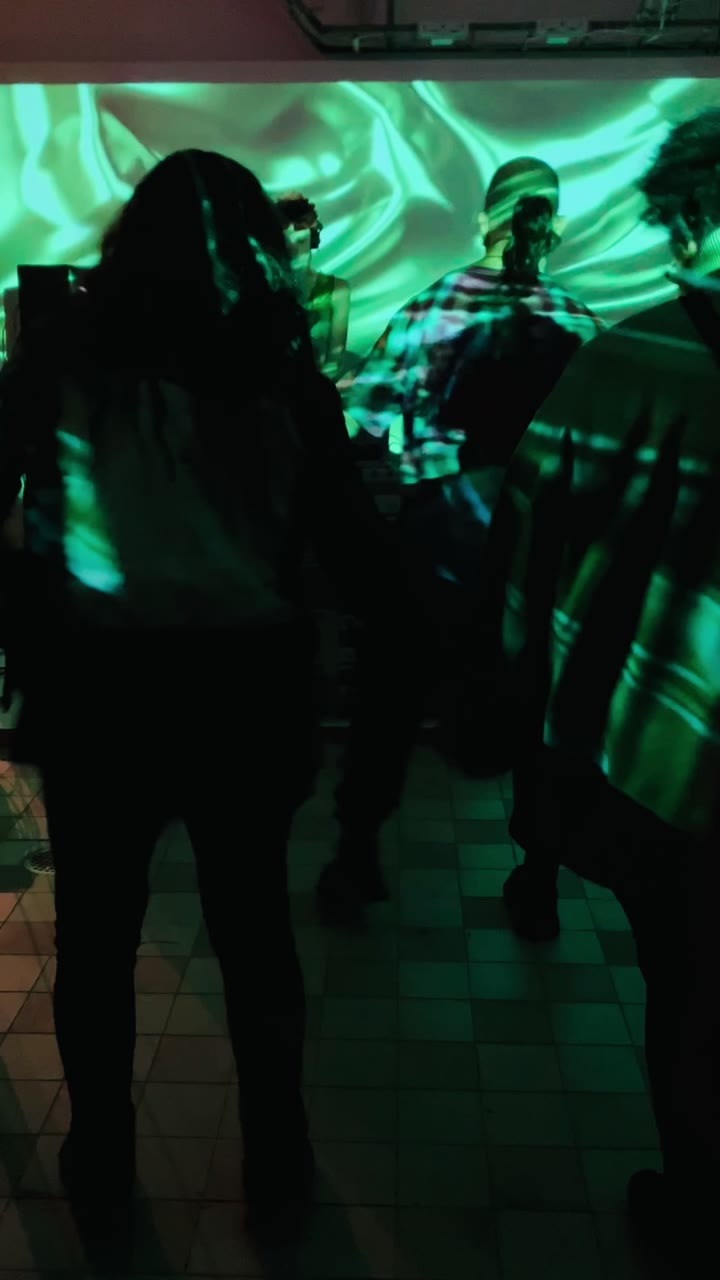
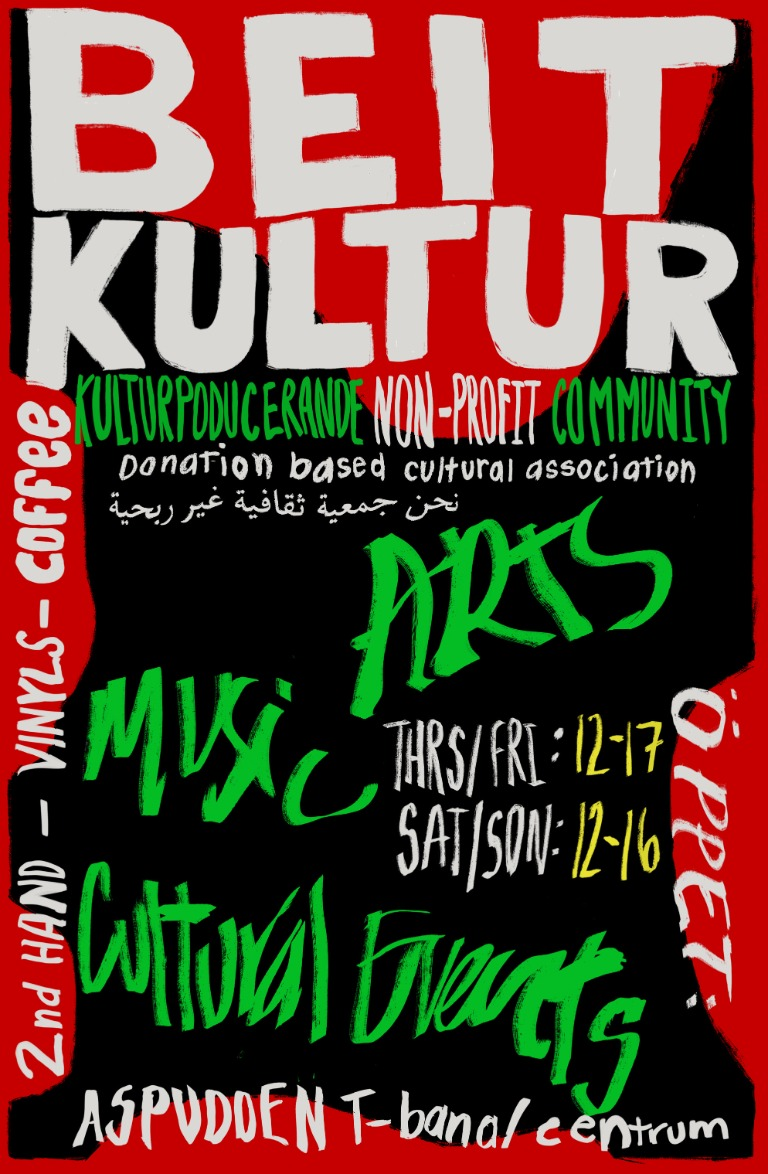
s

diff --git a/src/routes/get-involved/+page.svelte b/src/routes/get-involved/+page.svelte
@@ -1,5 +1,9 @@
 <script>
+	import { onMount } from 'svelte';
 	import Photo from '#lib/components/Photo.svelte';
+
+	let backgroundVideo;
+	let autoplayVideo = $state(false);
 
 	const ways = [
 		{
@@ -26,40 +30,114 @@
 			link: { href: '/donate', label: 'Donate', lime: true }
 		}
 	];
+
+	onMount(() => {
+		document.body.classList.add('page-background-active');
+		const motionPreference = window.matchMedia('(prefers-reduced-motion: reduce)');
+		const updateVideoPlayback = () => {
+			autoplayVideo = !motionPreference.matches;
+			if (motionPreference.matches) {
+				backgroundVideo.pause();
+			} else {
+				backgroundVideo.play().catch((error) => {
+					if (error?.name === 'AbortError') return;
+					console.error('Unable to play the Get involved background video.', error);
+				});
+			}
+		};
+
+		updateVideoPlayback();
+		motionPreference.addEventListener('change', updateVideoPlayback);
+
+		return () => {
+			motionPreference.removeEventListener('change', updateVideoPlayback);
+			document.body.classList.remove('page-background-active');
+			backgroundVideo.pause();
+		};
+	});
 </script>
 
 <svelte:head>
 	<title>Get involved – Beit Kultur</title>
 </svelte:head>
 
-<div class="top">
-	<div>
-		<h1>Get involved</h1>
-		<p class="intro">Beit Kultur is run by volunteers.</p>
-		<p class="intro">There are four ways you can take part.</p>
+<div class="get-involved-page">
+	<div class="page-background" aria-hidden="true">
+		<video
+			class="background-video"
+			bind:this={backgroundVideo}
+			autoplay={autoplayVideo}
+			muted
+			loop
+			playsinline
+			preload="metadata"
+			poster="/images/projects-background-poster.jpg"
+		>
+			<source src="/videos/get-involved-background.mp4" type="video/mp4" />
+		</video>
 	</div>
-	<div class="photo"><Photo file="event-crowd.jpg" /></div>
+
+	<div class="top">
+		<div>
+			<h1>Get involved</h1>
+			<p class="intro">Beit Kultur is run by volunteers.</p>
+			<p class="intro">There are four ways you can take part.</p>
+		</div>
+		<div class="photo"><Photo file="event-crowd.jpg" /></div>
+	</div>
+
+	<ol class="ways">
+		{#each ways as way}
+			<li class="card">
+				<div class="card-body">
+					<h2>{way.title}</h2>
+					{#each way.text as line}
+						<p>{line}</p>
+					{/each}
+					<a
+						href={way.link.href}
+						class="button"
+						class:button-second={!way.link.lime}>{way.link.label}</a
+					>
+				</div>
+			</li>
+		{/each}
+	</ol>
 </div>
 
-<ol class="ways">
-	{#each ways as way}
-		<li class="card">
-			<div class="card-body">
-				<h2>{way.title}</h2>
-				{#each way.text as line}
-					<p>{line}</p>
-				{/each}
-				<a
-					href={way.link.href}
-					class="button"
-					class:button-second={!way.link.lime}>{way.link.label}</a
-				>
-			</div>
-		</li>
-	{/each}
-</ol>
-
 <style>
+	.get-involved-page {
+		position: relative;
+		isolation: isolate;
+	}
+
+	.page-background {
+		position: fixed;
+		z-index: -1;
+		inset: 0;
+		width: 100vw;
+		height: 100vh;
+		overflow: hidden;
+		background: var(--bg);
+		pointer-events: none;
+	}
+
+	.page-background::after {
+		position: absolute;
+		inset: 0;
+		background: rgba(250, 248, 242, 0.72);
+		content: '';
+	}
+
+	.background-video {
+		position: fixed;
+		inset: 0;
+		display: block;
+		width: 100vw;
+		height: 100vh;
+		object-fit: cover;
+	}
+
 	.top {
 		display: grid;
 		grid-template-columns: 1fr 1fr;

diff --git a/src/routes/projects/+page.svelte b/src/routes/projects/+page.svelte
@@ -2,7 +2,6 @@
 	import { onMount } from 'svelte';
 	import { projects } from '#lib/data/projects.js';
 
-	let backgroundVideo;
 	let autoplayVideo = $state(false);
 
 	onMount(() => {
@@ -12,13 +11,8 @@
 		const updateVideoPlayback = () => {
 			autoplayVideo = !motionPreference.matches;
 			if (motionPreference.matches) {
-				backgroundVideo.pause();
 				projectVideos.forEach((video) => video.pause());
 			} else {
-				backgroundVideo.play().catch((error) => {
-					if (error?.name === 'AbortError') return;
-					console.error('Unable to play the Projects background video.', error);
-				});
 				projectVideos.forEach((video) => {
 					video.play().catch((error) => {
 						if (error?.name === 'AbortError') return;
@@ -33,7 +27,6 @@
 		return () => {
 			motionPreference.removeEventListener('change', updateVideoPlayback);
 			document.body.classList.remove('page-background-active');
-			backgroundVideo.pause();
 			projectVideos.forEach((video) => video.pause());
 		};
 	});
@@ -45,18 +38,7 @@
 
 <div class="projects-page">
 	<div class="page-background" aria-hidden="true">
-		<video
-			class="background-video"
-			bind:this={backgroundVideo}
-			autoplay={autoplayVideo}
-			muted
-			loop
-			playsinline
-			preload="metadata"
-			poster="/images/projects-background-poster.jpg"
-		>
-			<source src="/videos/projects-background.mp4" type="video/mp4" />
-		</video>
+		<img class="background-image" src="/images/projects-background-poster.jpg" alt="" />
 	</div>
 
 	<h1>Our projects</h1>
@@ -117,17 +99,18 @@
 	.page-background::after {
 		position: absolute;
 		inset: 0;
-		background: rgba(250, 248, 242, 0.72);
+		background: rgba(250, 248, 242, 0.5);
 		content: '';
 	}
 
-	.background-video {
+	.background-image {
 		position: fixed;
 		inset: 0;
 		display: block;
 		width: 100vw;
 		height: 100vh;
 		object-fit: cover;
+		object-position: center;
 	}
 
 	.projects {

diff --git a/.github/wireframe-spec.md b/.github/wireframe-spec.md
@@ -117,6 +117,7 @@ Bottom row: "Beit Kultur · non-profit cultural association · Stockholm" and li
 
 ### Projects — `/projects`
 Title "Our projects". Intro: Projects that give artists from the global majority space to show their work in music, poetry and film.
+Full-page background image: `static/images/projects-background-poster.jpg`, with a light overlay for readability. Keep the header and footer opaque.
 Project cards (muted autoplaying video with controls and poster, year · art form, title, description), 3 per row desktop, 1 on phone. Videos loop, respect reduced-motion settings, and use short 4:3 frames. Store video and poster paths in `src/lib/data/projects.js` as a list of objects.
 - Sundays at Beit · [YEAR] · Music, live sets · `sundays-at-beit.mp4` · "Sundays at Beit presents live sets by artists, like the Softronic live set. [MORE ABOUT THE SERIES]"
 - Beit Kultur goes digital · [YEAR] · Digital · `beit-kultur-goes-digital.mp4` · "Our first website. Before this, Beit Kultur had no digital platform. Now artists, members, volunteers and donors can find us online."
@@ -167,6 +168,7 @@ Error example: icon + "The username or password is wrong. Please try again."
 Button "Log in". Link "Back to the home page".
 
 ### Get involved — `/get-involved`
+Full-page background video: `static/videos/get-involved-background.mp4`, with `static/images/projects-background-poster.jpg` as its poster. Keep it muted and looping behind the content, use a light overlay for readability, respect `prefers-reduced-motion`, and keep the header and footer opaque.
 Title + "Beit Kultur is run by volunteers. There are four ways you can take part." Image `drawing-hanging-art.jpg`.
 4 numbered cards, NO forms:
 1. Volunteer — Give your time to help make events and projects happen. [WHAT VOLUNTEERS DO] → "Contact us to volunteer" (/about?topic=volunteer#contact)

diff --git a/wireframe.md b/wireframe.md
@@ -116,6 +116,7 @@ Bottom row: "Beit Kultur · non-profit cultural association · Stockholm" and li
 
 ### Projects — `/projects`
 Title "Our projects". Intro: Projects that give artists from the global majority space to show their work in music, poetry and film.
+Full-page background image: `static/images/projects-background-poster.jpg`, with a light overlay for readability. Keep the header and footer opaque.
 Project cards (muted autoplaying video with controls and poster, year · art form, title, description), 3 per row desktop, 1 on phone. Videos loop, respect reduced-motion settings, and use short 4:3 frames. Store video and poster paths in `src/lib/data/projects.js` as a list of objects.
 - Sundays at Beit · [YEAR] · Music, live sets · `sundays-at-beit.mp4` · "Sundays at Beit presents live sets by artists, like the Softronic live set. [MORE ABOUT THE SERIES]"
 - Beit Kultur goes digital · [YEAR] · Digital · `beit-kultur-goes-digital.mp4` · "Our first website. Before this, Beit Kultur had no digital platform. Now artists, members, volunteers and donors can find us online."
@@ -165,6 +166,7 @@ Error example: icon + "The username or password is wrong. Please try again."
 Button "Log in". Link "Back to the home page".
 
 ### Get involved — `/get-involved`
+Full-page background video: `static/videos/get-involved-background.mp4`, with `static/images/projects-background-poster.jpg` as its poster. Keep it muted and looping behind the content, use a light overlay for readability, respect `prefers-reduced-motion`, and keep the header and footer opaque.
 Title + "Beit Kultur is run by volunteers. There are four ways you can take part." Image `drawing-hanging-art.jpg`.
 4 numbered cards, NO forms:
 1. Volunteer — Give your time to help make events and projects happen. [WHAT VOLUNTEERS DO] → "Contact us to volunteer" (/about?topic=volunteer#contact)
